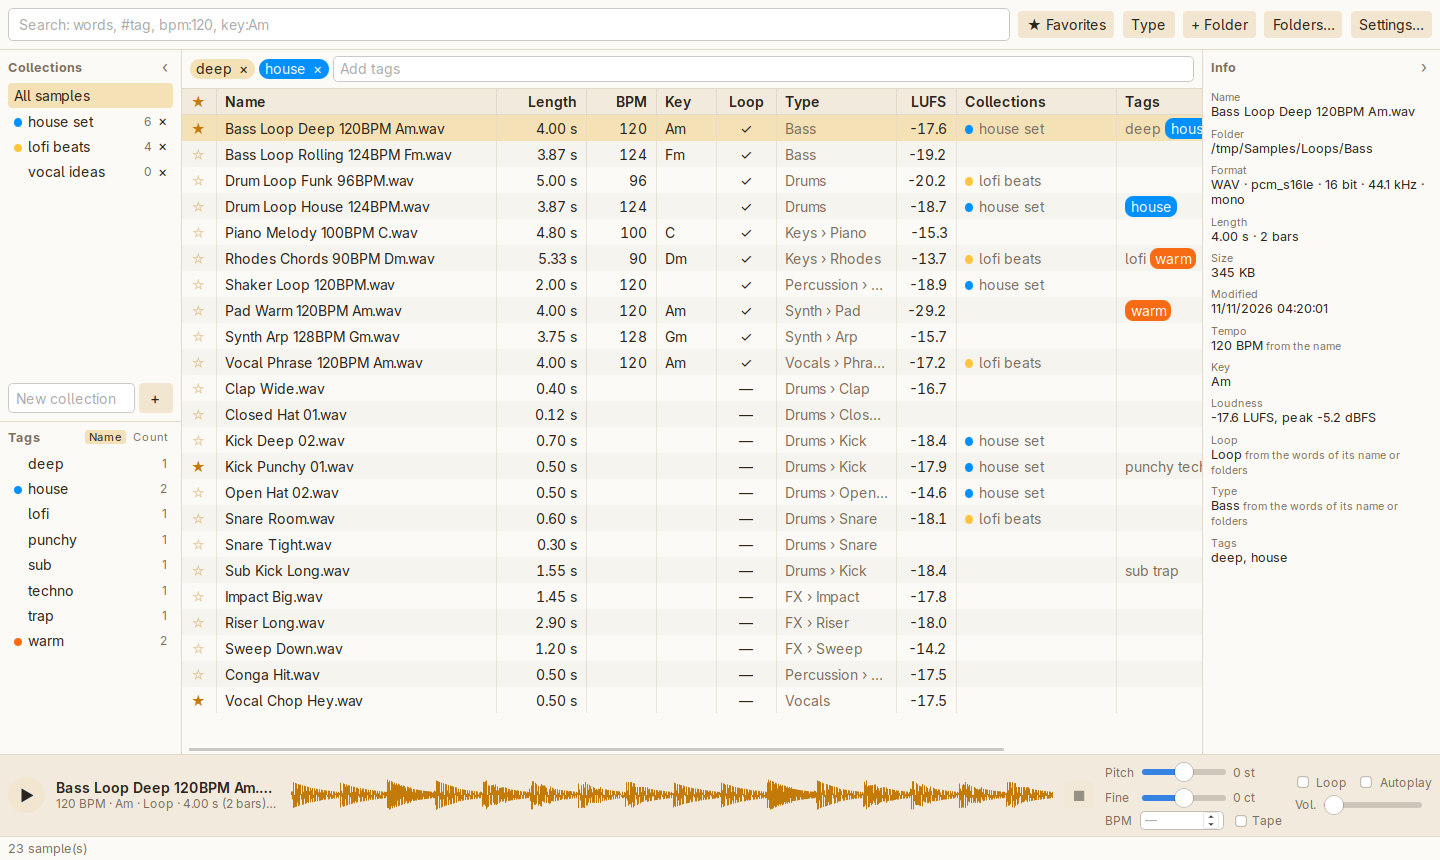
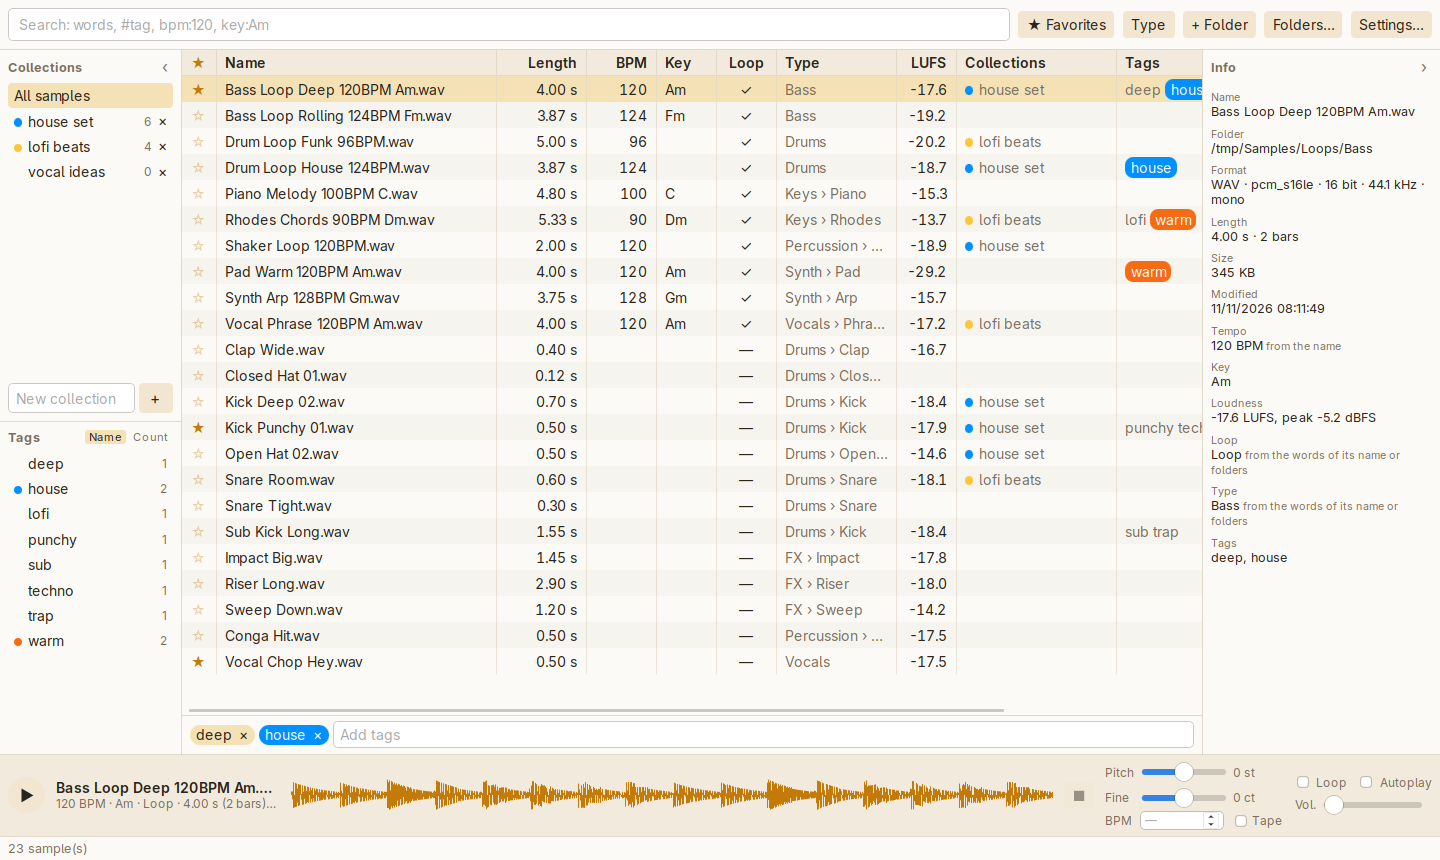
feat(ui): the tag bar under the list of samples

diff --git a/ui/index.html b/ui/index.html
@@ -38,9 +38,6 @@
     <span id="collections-resizer" class="resizer" title="Drag to widen; double-click for the default width"></span>
   </aside>
   <div id="workspace">
-  <div id="tagbar">
-    <input id="new-tags" type="text" placeholder="Add tags" spellcheck="false" disabled>
-  </div>
   <div id="list-head">
     <table>
       <colgroup>
@@ -56,6 +53,9 @@
       <tbody id="samples"></tbody>
     </table>
   </main>
+  <div id="tagbar">
+    <input id="new-tags" type="text" placeholder="Add tags" spellcheck="false" disabled>
+  </div>
   </div>
   <aside id="info">
     <div class="aside-head">

diff --git a/ui/style.css b/ui/style.css
@@ -912,7 +912,7 @@ header button:disabled,
 	align-items: center;
 	gap: var(--space-3);
 	padding: var(--space-4) var(--space-6);
-	border-bottom: 1px solid var(--border);
+	border-top: 1px solid var(--border);
 }
 
 .tag {

diff --git a/CLAUDE.md b/CLAUDE.md
@@ -345,7 +345,7 @@ Audio pitfalls met so far:
   canvas takes the theme's colour through `cssColor` (a probe element resolves the variable to
   `#rrggbb`): the System theme writes `--wave` as `light-dark(…)`, which a canvas does not read,
   and the waveform and the drag image were drawn in black.
-- 7d: a tag bar under the waveform shows the selected sample's tags, each with a × to remove
+- 7d: a tag bar under the list of samples shows the selected sample's tags, each with a × to remove
   it. Ctrl+T (Cmd+T on Mac) moves to the tag box; there, Enter adds the tags typed (separated
   by spaces), Backspace on an empty box removes the last tag shown in the bar (`commonTags`:
   with several samples selected, the last tag they all carry, never one of the current row
